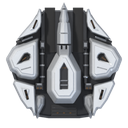
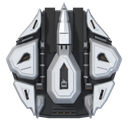
Arte 3D final do Autocanhao 20 mm (Carcara): cabeca de gaviao com bico, olhos ambar e penas para tras
Claude-Session: https://claude.ai/code/session_01WinUi4wzHz3zWHUSicAx1P

Changed region(s): [[0.4375, 0.0625, 0.5625, 0.3438], [0.4688, 0.625, 0.5312, 0.6875]]

diff --git a/tools/blender/parts/bs_autocannon_20.py b/tools/blender/parts/bs_autocannon_20.py
@@ -4,10 +4,11 @@ Mesma familia do 76 mm (nucleo escuro + placas claras com vaos), com identidade 
 planta em losango (mais larga na linha dos olhos, afina para o bico e para a nuca); bico em proa entre os
 canos (cera cinza com narinas escuras + bico claro facetado com crista central, dente tomial de cada lado e
 entalhe do gancho na ponta), bochechas claras facetadas com o olho do carcara (recesso preto em gota com fenda
-fina de lente fraca na cauda), garras em lamina com fenda de luz fraca que avancam ate a raiz de cada cano
-(pistao no vao bochecha/garra), coroa central com canal sensor escuro em seta, penas varridas para tras na nuca
+fina de lente fraca no fundo, na raiz da cauda), garras em lamina com fenda de luz fraca que avancam ate a raiz
+de cada cano (pistao no vao bochecha/garra), coroa central com canal sensor escuro em seta (fenda de luz na
+ponta, bloco sensor de aco atras), penas varridas para tras na nuca
 (lamina de fora com degrau e fenda de pips, nivel de baixo cinza medio por dentro), baia de exaustao entre as penas
-e calhas de alimentacao nos vaos ate as culatras.
+(persianas altas e 3 pips) e calhas de alimentacao nos vaos ate as culatras.
 Canos: culatra escura, camisa escura com fendas e brasa fraca, luva clara facetada com canal, extrator de
 gases facetado e colares, freio leve em ponta de flecha com fendas transversais escuras. Recuo alternado.
 """
@@ -201,7 +202,7 @@ def head(M, T="head", phase=0.0):
                 B.cut(t, [B.loft(f"eye_cut{sd}{t.name}", drop, drop, zt - 0.09, 1.0, K, bevel=0.0)])
         B.loft(f"eye_bed{sd}", drop, drop, zt - 0.10, zt - 0.088, M["black"], bevel=0.0, tags=tags)
         ux, uy = math.cos(math.radians(ang)), math.sin(math.radians(ang))   # eixo da cauda
-        B.rbox(f"eye_lens{sd}", sx * ex + ux * 0.04, ey + uy * 0.04, 0.016, 0.08, zt - 0.075, zt - 0.066,
+        B.rbox(f"eye_lens{sd}", sx * ex + ux * 0.03, ey + uy * 0.03, 0.016, 0.07, zt - 0.075, zt - 0.066,
                M["glow_dim"], rot=sx * 53, bevel=0.0, tags=tags)
 
         # garra em lamina com fenda de luz fraca ao longo do eixo
@@ -258,9 +259,9 @@ def head(M, T="head", phase=0.0):
     B.box("cap_eye", 0, -0.06, 0.07, 0.016, zt - 0.076, zt - 0.068, M["glow_dim"], bevel=0.0, tags=tags)
     # bloco sensor de aco elevado no fundo do canal (eco da espinha com sensor do 76 mm): ponta em seta e
     # janela escura no topo
-    sen = [(-0.052, -0.355), (0.052, -0.355), (0.052, -0.275), (0.0, -0.235), (-0.052, -0.275)]
-    B.plate("cap_sensor", sen, zt - 0.08, zt - 0.035, S, slope=0.012, bevel=0.005, tags=tags)
-    B.box("cap_win", 0, -0.31, 0.062, 0.026, zt - 0.036, zt - 0.031, M["black"], bevel=0.0, tags=tags)
+    sen = [(-0.056, -0.375), (0.056, -0.375), (0.056, -0.275), (0.0, -0.225), (-0.056, -0.275)]
+    B.plate("cap_sensor", sen, zt - 0.08, zt - 0.025, S, slope=0.014, bevel=0.005, tags=tags)
+    B.box("cap_win", 0, -0.315, 0.066, 0.03, zt - 0.026, zt - 0.021, M["black"], bevel=0.0, tags=tags)
 
     # baia de exaustao traseira: persianas altas (sobem acima da baia) com fileira de 3 pips; o do meio forte
     B.box("vent_bay", 0, -0.73, 0.40, 0.18, 0.20, 0.30, M["black"], bevel=0.0, tags=tags)
@@ -354,7 +355,7 @@ def roof(M, T="roof"):
         B.cut(v, [B.rbox(f"cvc{sx}{i}", cx - math.sin(a) * (i - 1) * 0.045, cy + math.cos(a) * (i - 1) * 0.045,
                          0.27, 0.025, 0.09, 0.2, K, rot=sx * 40, bevel=0.0) for i in range(3)])
         B.rbox(f"cvbed{sx}", cx, cy, 0.27, 0.12, 0.086, 0.092, M["black"], rot=sx * 40, bevel=0.0, tags=tags)
-        B.rbox(f"cled{sx}", cx + math.sin(a) * 0.045, cy - math.cos(a) * 0.045, 0.14, 0.018, 0.090, 0.098,
+        B.rbox(f"cled{sx}", cx + math.sin(a) * 0.045, cy - math.cos(a) * 0.045, 0.11, 0.018, 0.090, 0.098,
                M["glow_dim"], rot=sx * 40, bevel=0.0, tags=tags)
         # canto da frente: tampa triangular chanfrada com parafuso
         tri = [(sx * 0.92, 0.92), (sx * 0.64, 0.92), (sx * 0.92, 0.64)]
